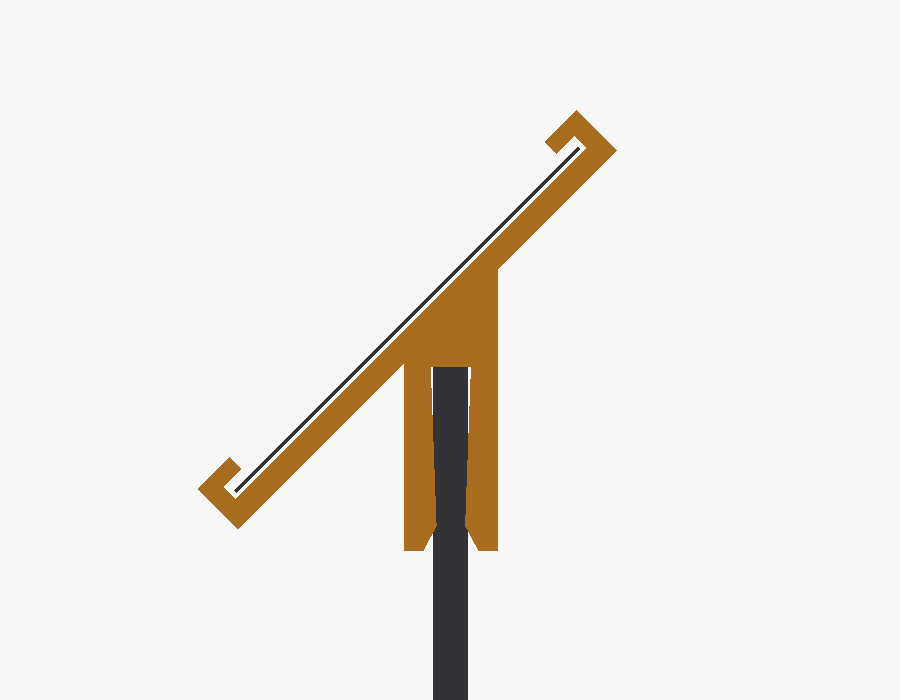
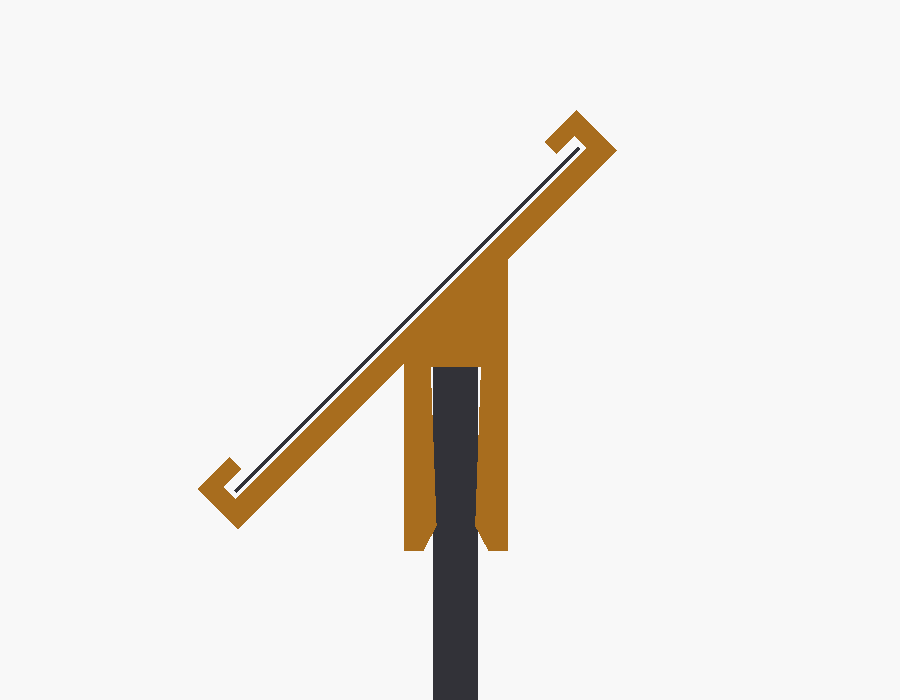
Skilteholder: bakke B (plastkurv) er 2,7 mm, ikke 2,1 mm
Rettet efter brugerens maaling. STL omdoebt til ..._2-7mm.stl og
README opdateret. Lukker samtidig en 0,2 mm sprække mellem kile og
stiver, der opstaar ved tynde kanter.

Claude-Session: https://claude.ai/code/session_01AFJQDikEG7QTFk7fWmV3LS

Changed region(s): [[0.4978, 0.39, 0.5911, 1.0]]

diff --git a/skilteholder/README.md b/skilteholder/README.md
@@ -24,13 +24,10 @@ op i rummene, er stadig frie og synlige.
 | Bakke | Billede | Kantens tykkelse | Andet | Holderens inderben |
 |-------|---------|------------------|-------|--------------------|
 | **A**, velourbakke | 1–3 | **7,0 mm** | rum 56,2 mm, skillevæg **3,4 mm** | **udskæring over midter-skillevæggen**, så skiltet centreres på bakkens midte |
-| **B**, plastkurv | 4 | **2,1 mm** | – | fuld bredde |
+| **B**, plastkurv | 4 | **2,7 mm** | – | fuld bredde |
 | **C**, velourbakke | 5 | **7,0 mm** | rum **71,2 mm** | gjort smallere (70,0 mm), så det **passer ned i ét rum**. Skiltet centreres på rummet, og der kan sidde ét skilt pr. rum |
 
 Alle kanter er ca. 20 mm høje. Benene går 11 mm ned over kanten.
-
-> ⚠ Displayet på billede 4 og 5 er svært at læse. Jeg har aflæst **2,1 mm** og **7,0 mm**. Mål
-> gerne efter, før I printer mange. Er det forkert, kan tallet rettes på 10 sekunder (se *Tilpas*).
 
 | Bakke A: udskæring over skillevæggen | Bakke C: inderbenet passer i ét rum |
 |---|---|
@@ -43,7 +40,7 @@ Alle kanter er ca. 20 mm høje. Benene går 11 mm ned over kanten.
 | Fil | Til |
 |-----|-----|
 | `skilteholder_A_velourbakke_7mm_skillevaeg.stl` | Bakke A (billede 1–3) |
-| `skilteholder_B_plastkurv_2-1mm.stl` | Bakke B (billede 4) |
+| `skilteholder_B_plastkurv_2-7mm.stl` | Bakke B (billede 4) |
 | `skilteholder_C_velourbakke_7mm_rum71.stl` | Bakke C (billede 5) |
 | `skilteholder.scad` | Den parametriske model. Alle mål ændres her |
 | `renders/` | Preview-billeder |
@@ -141,4 +138,4 @@ Står kunden tæt ved bordet, kigger man ca. 60–70° ned. Står man 1–1,5 m 
 45° ligger midt imellem, så labelen er læsbar fra begge afstande (højst ~25° skævt).
 
 ![Profil bakke B](renders/side_B.png)
-*Snit af B-varianten på den tynde plastkant (2,1 mm)*
+*Snit af B-varianten på den tynde plastkant (2,7 mm)*
